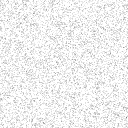
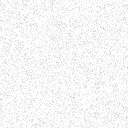
Keep the paper grain behind images instead of over them
Move the grain from a fixed overlay to the body background with
background-blend-mode, and soften the tile to match the old opacity.

diff --git a/docs/index.html b/docs/index.html
@@ -52,7 +52,9 @@
 * { margin: 0; padding: 0; box-sizing: border-box; }
 html { scroll-behavior: smooth; }
 body {
-  background: var(--paper);
+  background: var(--paper) url("media/site/grain.png") repeat;
+  background-size: 128px 128px;
+  background-blend-mode: multiply;
   color: var(--ink);
   font-family: var(--serif);
   font-size: 19px;
@@ -61,12 +63,6 @@ body {
   border-top: 5px solid var(--cobalt);
 }
 ::selection { background: var(--cobalt); color: var(--paper); }
-body::before {
-  content: ""; position: fixed; inset: 0;
-  background: url("media/site/grain.png") repeat; background-size: 128px 128px;
-  opacity: 0.55; mix-blend-mode: multiply;
-  pointer-events: none; z-index: 2147483647;
-}
 a { color: var(--cobalt); text-decoration: none; }
 a:hover { text-decoration: underline; text-underline-offset: 3px; }
 img { display: block; max-width: 100%; height: auto; }
